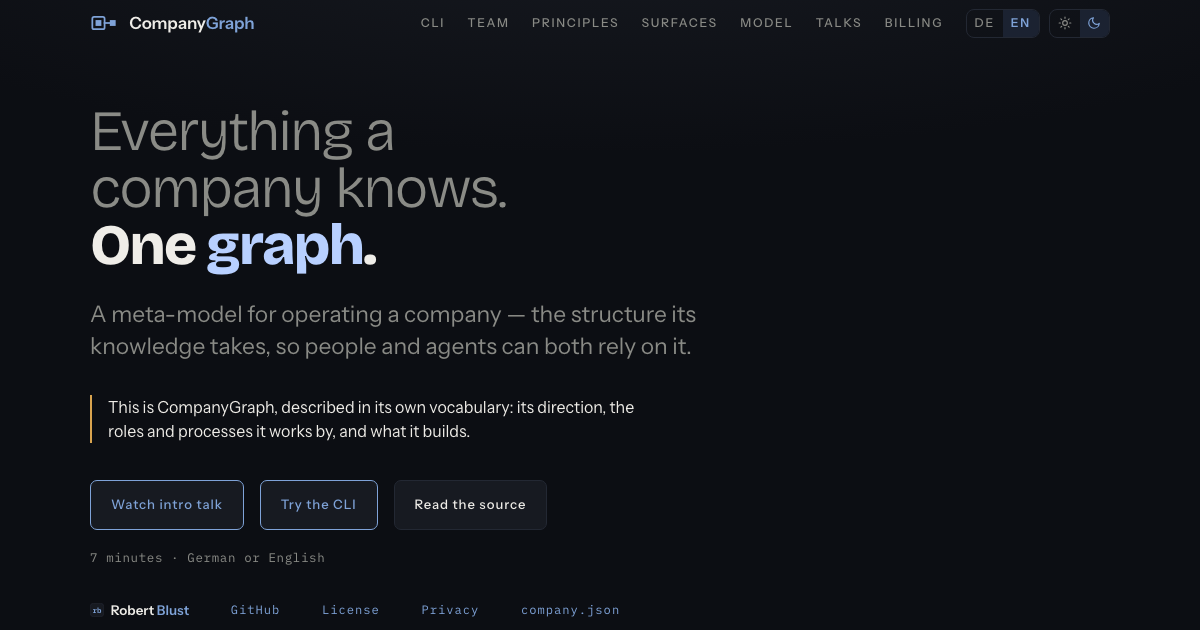
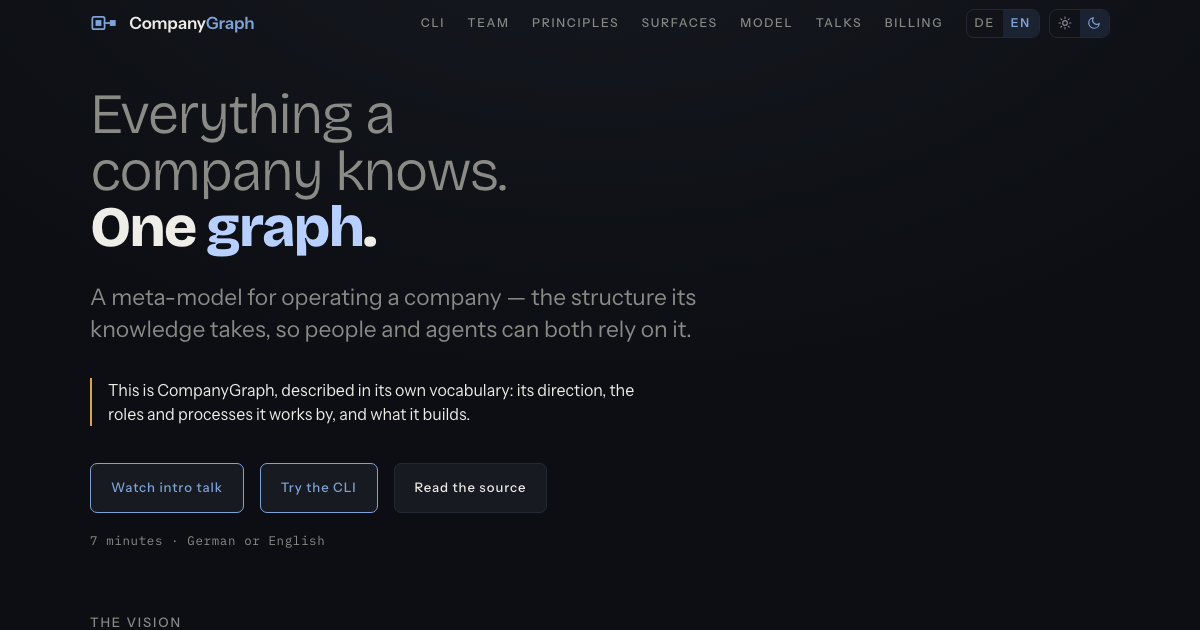
The home page shows the vision and the values
The opening told a visitor what CompanyGraph is; nothing below it said what the vision behind
it is, or what the three values are that the model itself states as we-never lines. Under the
graph, index.html now carries a vision section and a values section, ported from blust.ch's
markup: a kicker, three tiles — Ask opens the chat, See the model and See the example link to
the pages that show the whole graph and the fictional company — and a values list. build/pages.mjs
wires writeHome to fill both from company.json, with the same German lookup /principles/ now
uses, so the vision's heading and tagline and each value's name and its never-line read in
German too the moment a visitor switches, even before the page's own kickers and tiles do.

The values heading counts from the model rather than being typed by hand, so it reads three
today and would read four the day a fourth value is added, without a word here changing. The
page's own words — the kickers, the tile copy, the heading's frame — stay English for now; the
German is the next task, after the owner has reviewed this English on the rendered page.

Verified: npm run pages, pages:check, design:check, test:build, og, sitemap,
conventions-check, conventions-sync check and npx design german stale origin/main HEAD all pass;
BASE=http://localhost:8012 npm run verify passes on all 11 pages; each value's href resolves to
an id on /principles/; screenshots at 1440×900 and 390×844 show the opening unchanged and the
[…]

diff --git a/index.html b/index.html
@@ -351,6 +351,31 @@
       <button type="button" class="close" id="modalclose" aria-label="Close" data-de-aria="Schliessen">×</button>
     </dialog>
   </figure>
+
+  <section class="sec" id="vision">
+    <p class="kicker">The vision</p>
+    <!-- vision:start -->
+      <h2 data-de="Einmal geschrieben, <em>von beiden gelesen</em>.">Written once, <em>read by both</em>.</h2>
+      <p class="lede" data-de="Wir arbeiten auf Firmen hin, deren Wissen einmal geschrieben wird, in einer Struktur, auf die sich beide verlassen können: die Menschen, die sie führen, und die Agenten, die neben ihnen arbeiten. So lässt sich, was eine Firma weiss, dort lesen, prüfen und in Handeln umsetzen, wo es gebraucht wird, statt dass es jedes Mal, wenn jemand fragt, aus Wikis, Präsentationen, Tickets und Chatverläufen neu zusammengesetzt werden muss.">We are working toward companies whose knowledge is written once, in a structure that the people who run them and the agents working beside them can both rely on — so that what a company knows can be read, checked and acted on where it is needed, rather than reassembled out of wikis, decks, tickets and chat threads every time somebody asks.</p>
+      <!-- vision:end -->
+    <div class="tiles">
+      <button class="tile" type="button" data-chat-open><b>Ask</b><span>An agent that answers only from the model, and names the evidence under each answer.</span><i>Open the chat →</i></button>
+      <a class="tile" href="model/"><b>See the model</b><span>The whole graph CompanyGraph describes itself with: its direction, its roles and processes, and what it builds.</span><i>Open the model →</i></a>
+      <a class="tile" href="example/"><b>See the example</b><span>A fictional company described in CompanyGraph, exactly as its files say.</span><i>Open the example →</i></a>
+    </div>
+  </section>
+
+  <section class="sec" id="values">
+    <p class="kicker">What we hold to</p>
+    <!-- values:start -->
+      <h2>Three values, each with the thing <em>we never do</em>.</h2>
+      <div class="values">
+        <a href="principles/#adoption-is-not-taxed"><b data-de="Keine Pflichtgebühr für die Verbreitung">Adoption is not taxed</b><span data-de="Wir lassen das Modell nie teurer werden, je mehr Menschen oder Agenten einer Firma es lesen.">We never let the model cost more the more of a company, or the more of its agents, that reads it.</span></a>
+        <a href="principles/#describe-the-pattern-never-the-company"><b data-de="Das Muster beschreiben, nie die Firma">Describe the pattern, never the company</b><span data-de="Wir nehmen nie den Namen einer Firma, ihre Werkzeuge oder ihre Zahlen ins Vokabular auf.">We never put a company's name, its tooling or its counts into the vocabulary.</span></a>
+        <a href="principles/#run-on-what-we-publish"><b data-de="Selbst nutzen, was wir veröffentlichen">Run on what we publish</b><span data-de="Wir liefern nie einen Typ aus, den wir nicht schon an uns selbst anwenden mussten.">We never ship a type we have not already had to use on ourselves.</span></a>
+      </div>
+      <!-- values:end -->
+  </section>
   </div>
 </main>
 <div class="shell">
